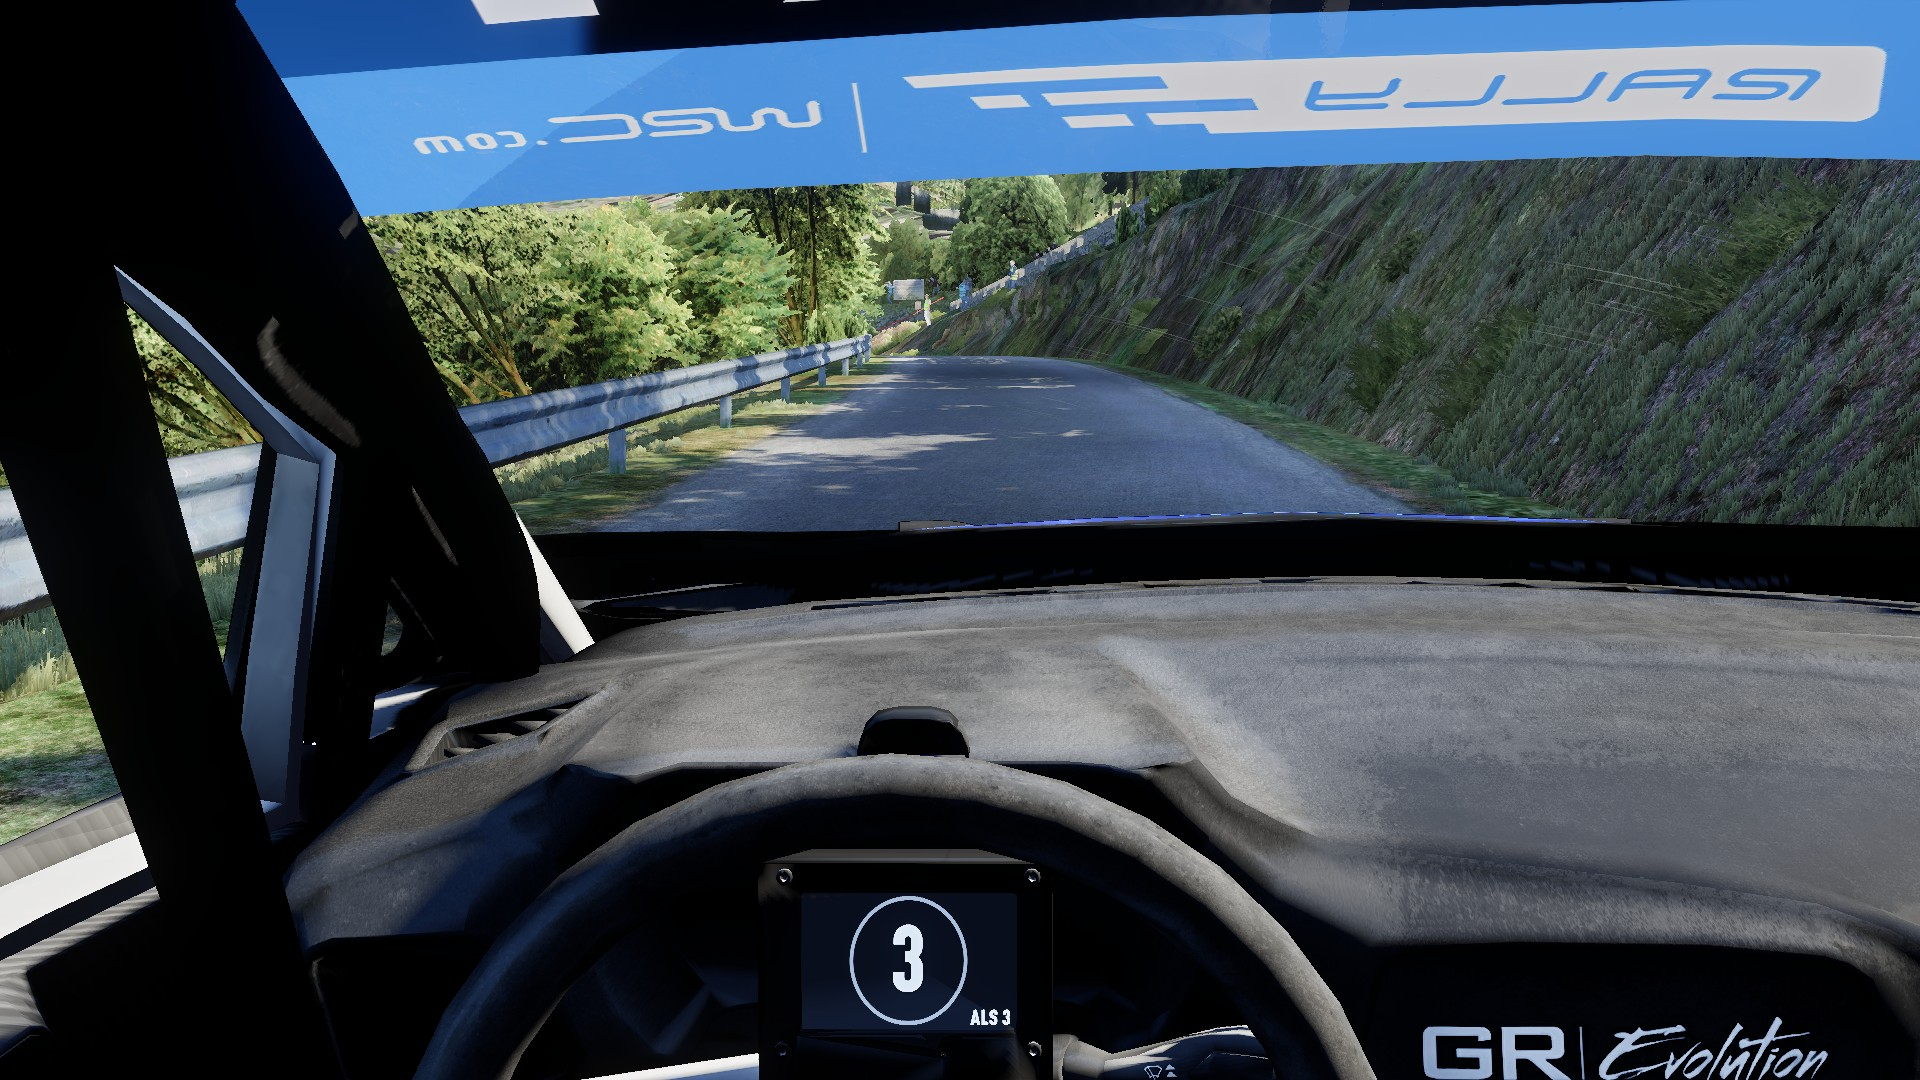
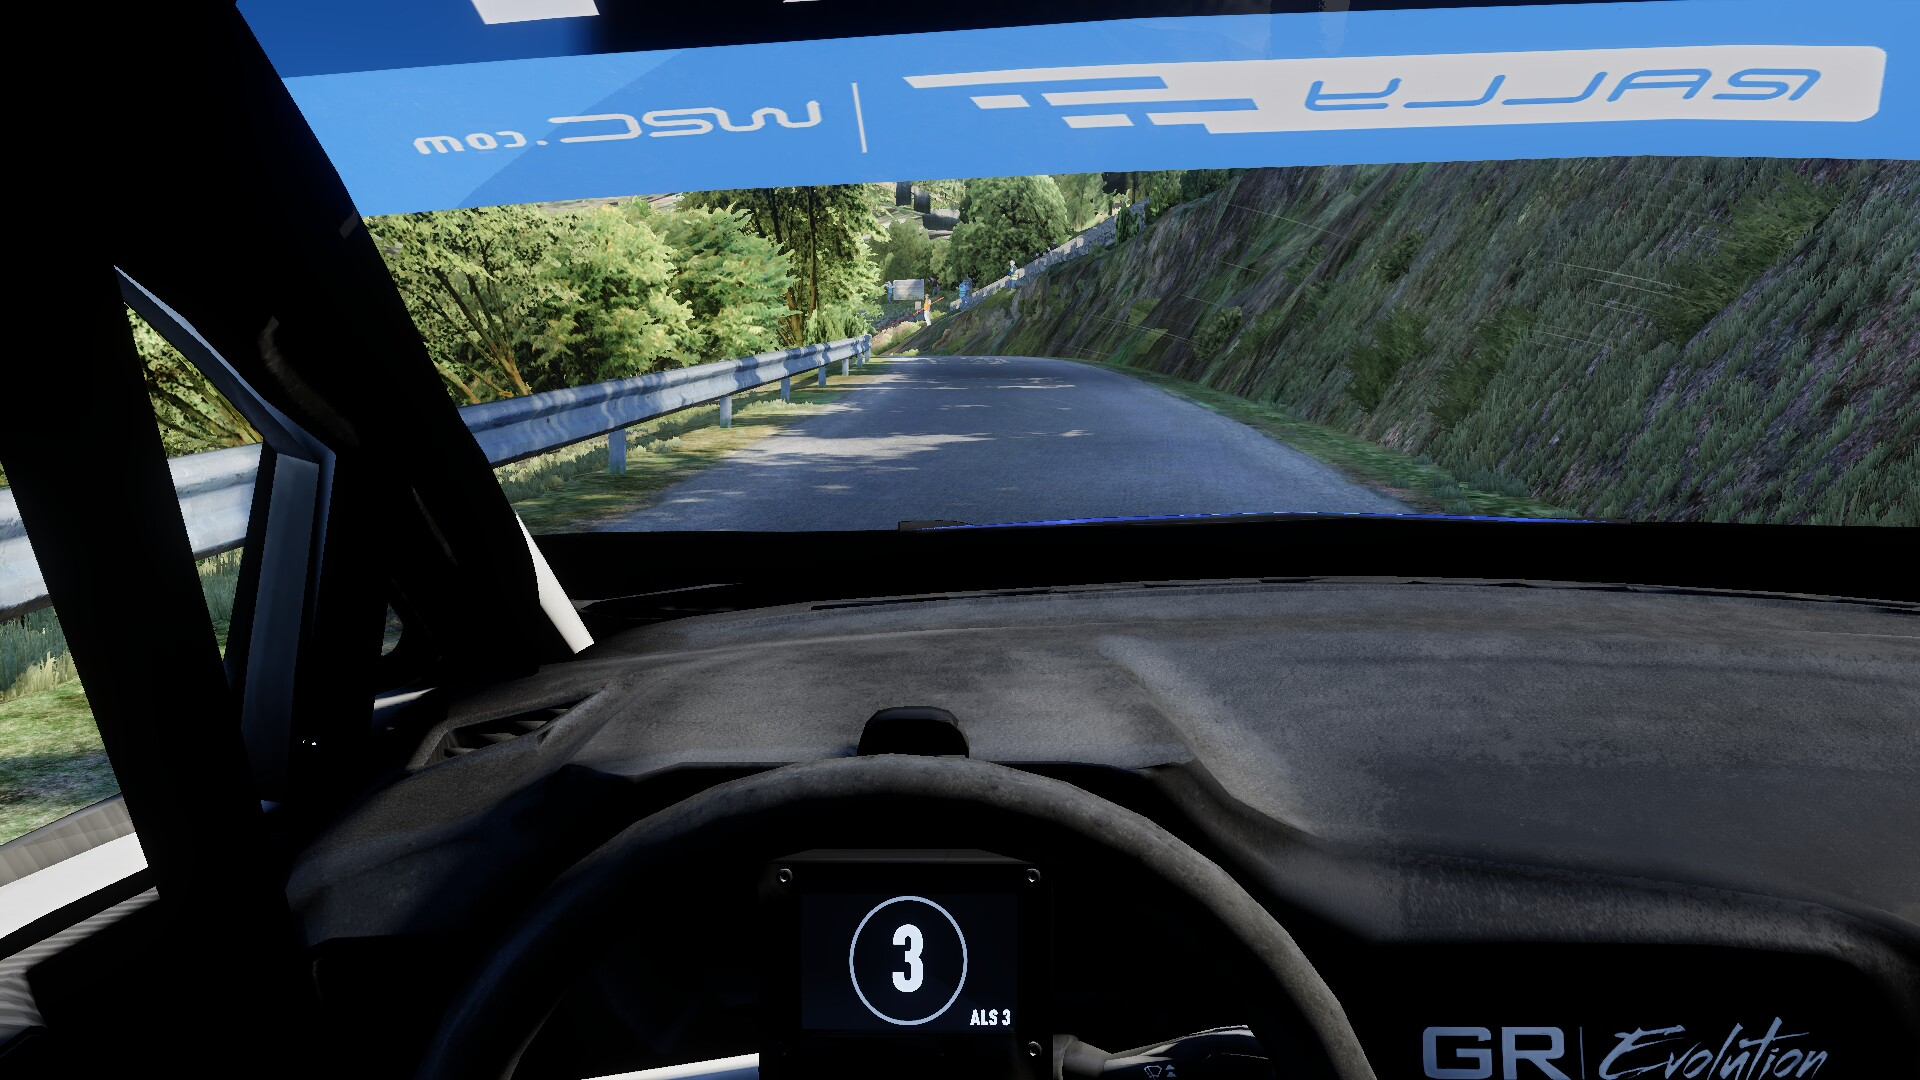
Cabin depth: the cockpit's light weighed toward the windows (window light twice, bounce half), what the cabin's own faces close off nearby taken off it (per vertex within 0.3 m, per pixel the contact shading over the cabin's depth, now laid in the in-car prepass), the bake's sky past only the exteri

diff --git a/crates/rbr-render/src/car/cabin.rs b/crates/rbr-render/src/car/cabin.rs
@@ -68,6 +68,9 @@ const RAYS: usize = 64;
 const REACH: f32 = 2.5;
 /// Where a ray starts, off its own face along the normal, metres (two cells: the face's own cells do not shade it).
 const LIFT: f32 = 2.0 * VOXEL;
+/// How far the near occlusion looks, metres ([`Grid::sky`]): the cabin's own faces within it close a face in (the
+/// binnacle's hood over the dials, the footwells), each by how near it lies.
+const NEAR: f32 = 0.3;
 
 /// The car's opaque faces in cells.
 struct Grid {
@@ -113,41 +116,50 @@ impl Grid {
 
     /// Whether a ray from `from` along `dir` leaves the car without meeting a face.
     fn open(&self, from: Vec3, dir: Vec3) -> bool {
+        self.hit(from, dir).is_none()
+    }
+
+    /// How far a ray from `from` along `dir` goes before it meets a face, `None` if it leaves the car.
+    fn hit(&self, from: Vec3, dir: Vec3) -> Option<f32> {
         let step = 0.5 * VOXEL;
         let mut t = 0.0;
         while t < REACH {
             match self.index(from + dir * t) {
-                Some(k) if self.solid[k] => return false,
+                Some(k) if self.solid[k] => return Some(t),
                 Some(_) => {}
-                None => return true,
+                None => return None,
             }
             t += step;
         }
-        true
+        None
     }
 
     /// The cosine-weighted share of the hemisphere over `normal` at `p` that is open, and where it lies: the mean of
     /// the [`RAYS`] directions, each that meets the car counted zero. The mean's length over the share says how
-    /// gathered the open directions are: 2/3 for the whole hemisphere, toward 1 for a narrow window.
-    fn sky(&self, p: Vec3, normal: Vec3) -> (f32, Vec3) {
+    /// gathered the open directions are: 2/3 for the whole hemisphere, toward 1 for a narrow window. Then the near
+    /// occlusion: the mean over the rays of how much of [`NEAR`] the face each meets leaves, 0 to 1.
+    fn sky(&self, p: Vec3, normal: Vec3) -> (f32, Vec3, f32) {
         let n = normal.normalize_or_zero();
         if n == Vec3::ZERO {
-            return (1.0, Vec3::ZERO);
+            return (1.0, Vec3::ZERO, 0.0);
         }
         let (t, b) = n.any_orthonormal_pair();
         let from = p + n * LIFT;
-        let (mut open, mut seen) = (0, Vec3::ZERO);
+        let (mut open, mut seen, mut near) = (0, Vec3::ZERO, 0.0);
         for k in 0..RAYS {
             // A spiral over the disc, lifted onto the hemisphere: cosine-weighted.
             let s = (k as f32 + 0.5) / RAYS as f32;
             let (r, angle) = (s.sqrt(), k as f32 * 2.399_963);
             let dir = t * (r * angle.cos()) + b * (r * angle.sin()) + n * (1.0 - s).sqrt();
-            if self.open(from, dir) {
-                open += 1;
-                seen += dir;
+            match self.hit(from, dir) {
+                None => {
+                    open += 1;
+                    seen += dir;
+                }
+                Some(d) => near += (1.0 - (d + LIFT) / NEAR).max(0.0),
             }
         }
-        (open as f32 / RAYS as f32, seen / RAYS as f32)
+        (open as f32 / RAYS as f32, seen / RAYS as f32, near / RAYS as f32)
     }
 }
 
@@ -177,16 +189,30 @@ fn pane_through(cos: f32) -> f32 {
 
 const PANE_F0: f32 = 0.04;
 
+/// Whether the exterior set's `draw` is its painted shell (a class that reflects, `Kf` over 0): the rest of the
+/// exterior holds its own low-detail cabin (the Escort Mk II's `e_internal`, the i20 WRC 2020's `e_tablero` and
+/// `e_jaula`), never drawn in the in-car view, which sat over the interior's dash and shut it off from the sky (the
+/// Escort's dash top saw none through the windscreen).
+fn shell(draw: &Draw) -> bool {
+    opaque(draw) && draw.state.shade.is_some_and(|shade| shade.kf > 0.0)
+}
+
 /// The triangles of `mesh`'s [`opaque`] draws.
 fn opaque_triangles(mesh: &Mesh) -> impl Iterator<Item = [Vec3; 3]> + '_ {
+    triangles_of(mesh, opaque)
+}
+
+/// The triangles of `mesh`'s draws that `keep` admits.
+fn triangles_of(mesh: &Mesh, keep: fn(&Draw) -> bool) -> impl Iterator<Item = [Vec3; 3]> + '_ {
     let at = |i: u32| Vec3::from(mesh.vertices[i as usize].position);
-    mesh.draws.iter().filter(|draw| opaque(draw)).flat_map(move |draw| {
+    mesh.draws.iter().filter(move |draw| keep(draw)).flat_map(move |draw| {
         mesh.indices[draw.indices.clone()].chunks_exact(3).map(move |t| [at(t[0]), at(t[1]), at(t[2])])
     })
 }
 
-/// Stores in each vertex of `interior` how much it is shut off from the sky, `1 - sky`, past the opaque faces of both
-/// `interior` and `exterior` (at the same placement), in `specular[2]`, and marks those of its [`opaque`] draws
+/// Stores in each vertex of `interior` how much it is shut off from the sky, `1 - sky`, past the opaque faces of
+/// `interior` and the [`shell`] of `exterior` (at the same placement), in `specular[2]`, its near occlusion
+/// ([`Grid::sky`]) in `occlusion`, and marks those of its [`opaque`] draws
 /// [`INTERIOR`] (the glass the outside is seen through stays lit as in the game), and the glass of its mirror parts
 /// (`damage`, per mesh) [`MIRROR`], with where each sees the sky ([`seen`]). Returns how light gets into the cabin
 /// ([`SunIn`]), the interior's faces' colours read from `textures`.
@@ -196,13 +222,16 @@ pub fn bake(
     exterior: &[Mesh],
     textures: &BTreeMap<TextureRef, StageTexture>,
 ) -> Option<SunIn> {
-    let triangles: Vec<[Vec3; 3]> = interior.iter().chain(exterior).flat_map(opaque_triangles).collect();
+    let shells = exterior.iter().flat_map(|mesh| triangles_of(mesh, shell));
+    let triangles: Vec<[Vec3; 3]> = interior.iter().flat_map(opaque_triangles).chain(shells).collect();
     let grid = Grid::new(&triangles)?;
     let points: Vec<(Vec3, Vec3)> = interior
         .iter()
         .flat_map(|m| m.vertices.iter().map(|v| (Vec3::from(v.position), Vec3::from(v.normal))))
         .collect();
-    let skies = in_parallel(&points, |&(p, n)| grid.sky(p, n));
+    let baked = in_parallel(&points, |&(p, n)| grid.sky(p, n));
+    let skies: Vec<(f32, Vec3)> = baked.iter().map(|&(sky, seen, _)| (sky, seen)).collect();
+    let mut nears = baked.iter().map(|&(_, _, near)| near);
     let panes: Vec<(Vec3, f32)> = interior.iter().chain(exterior).flat_map(panes).collect();
     let sun_in = SunIn::measure(&grid, interior, &skies, &panes, textures);
     let mirrors: Vec<Option<Mirror>> = (0..interior.len()).map(|k| damage.get(k).and_then(|d| d.mirror)).collect();
@@ -214,7 +243,9 @@ pub fn bake(
             .iter_mut()
             .zip(skies.by_ref())
             .map(|(vertex, (sky, seen))| {
+                let near = nears.next().unwrap_or(0.0);
                 vertex.specular[2] = 1.0 - sky;
+                vertex.occlusion = near;
                 seen
             })
             .collect();
@@ -610,8 +641,20 @@ mod tests {
             Vec3::new(-1.0, 0.5, 1.0),
         );
         let grid = Grid::new(&[floor, roof].concat()).unwrap();
-        let under = grid.sky(Vec3::ZERO, Vec3::Y).0;
+        let (under, _, near) = grid.sky(Vec3::ZERO, Vec3::Y);
         assert!(under > 0.05 && under < 0.4, "{under}");
+        // The roof lies past the near occlusion's reach overhead; only the rays low toward it meet it within reach.
+        assert!(near < 0.05, "{near}");
+        // A shelf 0.1 m over the floor closes it in.
+        let shelf = square(
+            Vec3::new(-1.0, 0.1, -1.0),
+            Vec3::new(1.0, 0.1, -1.0),
+            Vec3::new(1.0, 0.1, 1.0),
+            Vec3::new(-1.0, 0.1, 1.0),
+        );
+        let grid_shelf = Grid::new(&[floor, shelf].concat()).unwrap();
+        let (_, _, near) = grid_shelf.sky(Vec3::ZERO, Vec3::Y);
+        assert!(near > 0.3 && near < 0.9, "{near}");
         // Facing a wall a hand away from the edge, it sees out the open side.
         assert!(grid.sky(Vec3::new(0.95, 0.25, 0.0), Vec3::X).0 > 0.8);
     }
@@ -632,13 +675,13 @@ mod tests {
             Vec3::new(-3.0, 0.5, 3.0),
         );
         let grid = Grid::new(&[floor, roof].concat()).unwrap();
-        let (share, seen) = grid.sky(Vec3::new(0.5, 0.0, 0.0), Vec3::Y);
+        let (share, seen, _) = grid.sky(Vec3::new(0.5, 0.0, 0.0), Vec3::Y);
         assert!(share > 0.1 && share < 0.6, "{share}");
         assert!(seen.x > 0.5 * seen.length(), "{seen}");
         // Gathered: the mean's length over the share is past the whole hemisphere's 2/3.
         assert!(seen.length() / share > 0.7, "{seen} {share}");
         // Below the floor, facing down: all open, the mean at the whole hemisphere's.
-        let (open, wide) = grid.sky(Vec3::new(0.0, -0.1, 0.0), Vec3::NEG_Y);
+        let (open, wide, _) = grid.sky(Vec3::new(0.0, -0.1, 0.0), Vec3::NEG_Y);
         assert_eq!(open, 1.0);
         assert!((wide.length() - 2.0 / 3.0).abs() < 0.02, "{wide}");
     }
@@ -688,8 +731,12 @@ mod tests {
         for v in &mut mesh.vertices {
             v.color = [128, 128, 128, 255];
         }
-        let skies: Vec<(f32, Vec3)> =
-            mesh.vertices.iter().map(|v| grid.sky(Vec3::from(v.position), Vec3::from(v.normal))).collect();
+        let skies: Vec<(f32, Vec3)> = mesh
+            .vertices
+            .iter()
+            .map(|v| grid.sky(Vec3::from(v.position), Vec3::from(v.normal)))
+            .map(|(sky, seen, _)| (sky, seen))
+            .collect();
         let sun_in = SunIn::measure(&grid, &[mesh], &skies, &[], &BTreeMap::new());
         // Seen out the open side only, and grey 128 untextured: (128 / 255)^2.2 linear.
         assert!(sun_in.sky > 0.05 && sun_in.sky < 0.6, "{}", sun_in.sky);
@@ -759,6 +806,7 @@ mod tests {
             ),
         ];
         let grid = Grid::new(&faces.concat()).unwrap();
-        assert_eq!(grid.sky(Vec3::new(0.0, -0.5, 0.0), Vec3::Y), (0.0, Vec3::ZERO));
+        let (sky, seen, _) = grid.sky(Vec3::new(0.0, -0.5, 0.0), Vec3::Y);
+        assert_eq!((sky, seen), (0.0, Vec3::ZERO));
     }
 }

diff --git a/crates/rbr-render/src/renderer/pipelines.rs b/crates/rbr-render/src/renderer/pipelines.rs
@@ -132,6 +132,11 @@ impl PipelineKey {
         PipelineKey { inside: Some(inside), ..self }
     }
 
+    /// Whether all the draw's faces are the cabin's interior set's ([`PipelineKey::cabin_set`]).
+    pub(super) fn cabin(&self) -> bool {
+        self.cabin_set == Some(true)
+    }
+
     /// Whether the draw has a pipeline per view ([`PipelineKey::inside`]): the lit draws.
     pub(super) fn takes_views(&self) -> bool {
         self.lit != 0
@@ -151,12 +156,13 @@ impl PipelineKey {
 /// An opaque alpha-tested stage draw that writes depth: the main view lays its depth first ([`DrawPass`]); with the
 /// sun's mask (`sun_mask`) every opaque one, whose depth the mask is worked out from. The lit draws are left out, since
 /// their alpha is not the texture's alone, but for the car's reflecting ones.
-pub(super) fn prepassed(state: &DrawState, lighting: bool) -> bool {
+pub(super) fn prepassed(state: &DrawState, lighting: bool, cabin: bool) -> bool {
     let opaque = state.depth_test && state.depth_write;
     match &state.shade {
-        // The car's opaque draws too (not the characters', whose shade reflects nothing), in the outside views only
-        // (`GpuDraw::prepassed`): the contact shading then sees the car, its arches and the ground under it.
-        Some(shade) => lighting && opaque && !state.blend && shade.fresnel_max > 0.0,
+        // The car's opaque draws too (not the characters', whose shade reflects nothing), in the outside views
+        // (`GpuDraw::prepassed`): the contact shading then sees the car, its arches and the ground under it. In the
+        // in-car view the cabin's interior set's ([`PipelineKey::cabin`]), for its own contact shading.
+        Some(shade) => lighting && opaque && !state.blend && (shade.fresnel_max > 0.0 || cabin),
         None => (cutout(state) || (lighting && !state.blend)) && opaque,
     }
 }

diff --git a/crates/rbr-render/src/renderer/frame.rs b/crates/rbr-render/src/renderer/frame.rs
@@ -496,9 +496,10 @@ impl Renderer {
             .iter()
             .filter(|&&(mesh, distance)| laid(mesh, distance))
             .flat_map(|&(mesh, distance)| {
-                // The car's lit draws only outside it: the cockpit's frame is as it was.
-                let draws =
-                    mesh.draws.iter().filter(move |draw| draw.lod.shows(distance) && !(inside && draw.views.is_some()));
+                // The car's lit draws only outside it, but for the cabin's interior set inside it (its contact shading).
+                let draws = mesh.draws.iter().filter(move |draw| {
+                    draw.lod.shows(distance) && !(inside && draw.views.is_some() && !draw.pipeline.cabin())
+                });
                 draws.filter_map(move |draw| Some((mesh, draw, &draw.prepassed.as_ref()?[0])))
             })
             .collect();

diff --git a/crates/rbr-render/src/renderer/mod.rs b/crates/rbr-render/src/renderer/mod.rs
@@ -457,7 +457,7 @@ impl Renderer {
             // A lit draw is only drawn with its views' pipelines: its `main` is the outside one, not a third to compile.
             let main = viewed.as_ref().map_or_else(|| pipeline_in(DrawPass::Main), |[outside, _]| outside.clone());
             // The car's lit draws are shaded after the prepass by their outside view's pipeline.
-            let prepassed = prepassed(&draw.state, context.lighting).then(|| {
+            let prepassed = prepassed(&draw.state, context.lighting, pipeline.cabin()).then(|| {
                 let lit = pipeline.takes_views();
                 [DrawPass::DepthPrepass, DrawPass::AfterPrepass].map(|pass| {
                     let key = if lit && pass == DrawPass::AfterPrepass {

diff --git a/crates/rbr-render/src/stage/mesh.rs b/crates/rbr-render/src/stage/mesh.rs
@@ -55,7 +55,8 @@ pub struct Vertex {
     /// elsewhere.
     pub specular: [f32; 3],
     /// How little of the sky the vertex sees, 0 (open) to 1, computed for the stage's world draws
-    /// ([`crate::sky_occlusion`]; ours); 0 elsewhere.
+    /// ([`crate::sky_occlusion`]; ours); on the cabin's interior set how near its own faces close it in
+    /// ([`crate::car::cabin::bake`]); 0 elsewhere.
     pub occlusion: f32,
     /// The mean direction the vertex sees the sky in (its bent normal; octahedral, two 16-bit snorms,
     /// `sky_occlusion.wgsl`), computed with [`Vertex::occlusion`]; 0 for none (the normal stands in).

diff --git a/notes/renderer.md b/notes/renderer.md
@@ -934,7 +934,7 @@ Exposure in the cockpit (user's call, 2026-10-31; was one exposure, the cabin me
 eye adapts to the dash when it looks there. The outside's meter counts the cabin at 1/5 (`IN_CAR_WEIGHT`): at 1/2 the
 dark cabin held the outside 1.5 to 2 stops over (Escort road 168 of 255; metered alone 91). The cabin takes its own
 exposure, eased as the outside's, at least the outside's and at most 4 stops over it (`CABIN_STOPS`), its darkest
-values lifted by a toe (`CABIN_TOE`, 1 stop at black, a sixty-fifth at middle grey), in a composite pipeline of its
+values lifted by a toe (`CABIN_TOE`, 1 stop at black, a sixty-fifth at middle grey; both changed 2026-11-01, below), in a composite pipeline of its
 own (`CABIN`). The glow and the light shafts keep the outside's exposure (at the cabin's they lit the pillars with a
 green haze); a pixel takes the cabin's only when its 3 x 3 are all cabin (a softer blend drew a dark band inside the
 pillars, or a bright halo outside them). Chosen against more cabin light (the light is right, above), a shadow-side
@@ -945,6 +945,24 @@ outside shots byte-identical; 4 s of driving (Escort, Clio) hold the cabin withi
 that writes depth (the Clio Rally3's `CarPlastic` side windows) and the rear-view mirror count as cabin, so what is
 seen in them takes the cabin's exposure (about 1.5 stops over on the Clio); the forest shots' door cards stay dark (5
 to 7 stops under the road, which their light is).
+
+Cabin depth (user's pick of five looks, 2026-11-01, `cabin_day_lit`): the sky share came out near zero on most faces,
+so the bounce, the same on every face, lit nearly all of the cabin and it read flat. Three causes, three changes. The
+bake took the exterior set's own low-detail cabin (Escort Mk II `e_internal`, i20 WRC 2020 `e_tablero`, `e_jaula`;
+never drawn in the in-car view) as solid over the interior's dash: now only the exterior's painted shell
+(`car::cabin::shell`, `Kf` over 0) casts with the interior set (mean sky share Escort 0.070 to 0.076, i20 0.090 to
+0.104). The window light counts twice and the bounce half (`CABIN_WINDOW_LIGHT`, `CABIN_BOUNCE_SHARE`). What the
+cabin's own faces close off nearby takes window light and half as much bounce (`CABIN_NEAR_BOUNCE`; in full it took
+the Fiat 131's tan dash under its hood to black): per vertex, the rays that meet a face within 0.3 m
+(`car::cabin::NEAR`, in `Vertex::occlusion`), and per pixel the contact shading at 0.2 m and strength 2.5 over the
+cabin's depth, which the in-car view now lays in the prepass (`pipelines::prepassed`), read over 3 x 3 half-size texels
+(one texel left a fixed speckle). The cabin's exposure is held to 2.5 stops over the outside's and the toe is gone (the
+look keeps its blacks; alone the change was barely visible), dial faces at least half the open sky's light
+(`CABIN_GAUGE_LEAST`, was a quarter). All 10 cockpit shots change (RMSE 1.7 % nights to 11.6 % fog Alpes GC8): dash tops
+under the glass lit, binnacles, footwells and cage roofs dark, the GC8's blue cage no longer glowing. 1080p cockpit
+scene pass (RX 9060 XT) 3.35 to 2.98 ms on 621 i20, 2.67 to 2.64 on Alpes GC8: the cabin's depth hides the stage
+behind the dash. Tried and dropped: the near occlusion at twice its weight on the bounce too (recessed dash faces
+black), the original textures in place of the upscaler's (grainier, no less flat).
 
 Interior sheen (2026-10-31, `cabin_sheen`): every cabin face but paint open to the sky (the bonnet through the glass,
 `CABIN_OUT`) reflects as a low-gloss plastic, `environment_reflectance` at roughness 0.8 (2 to 3 %) of the cube's
